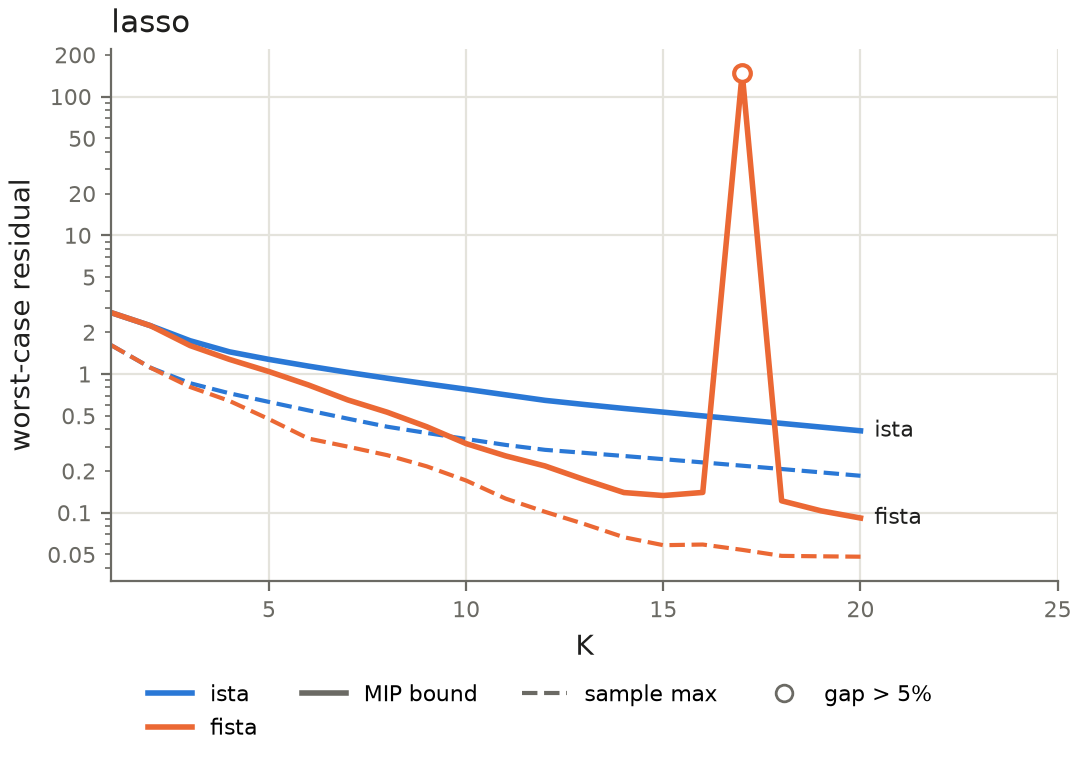
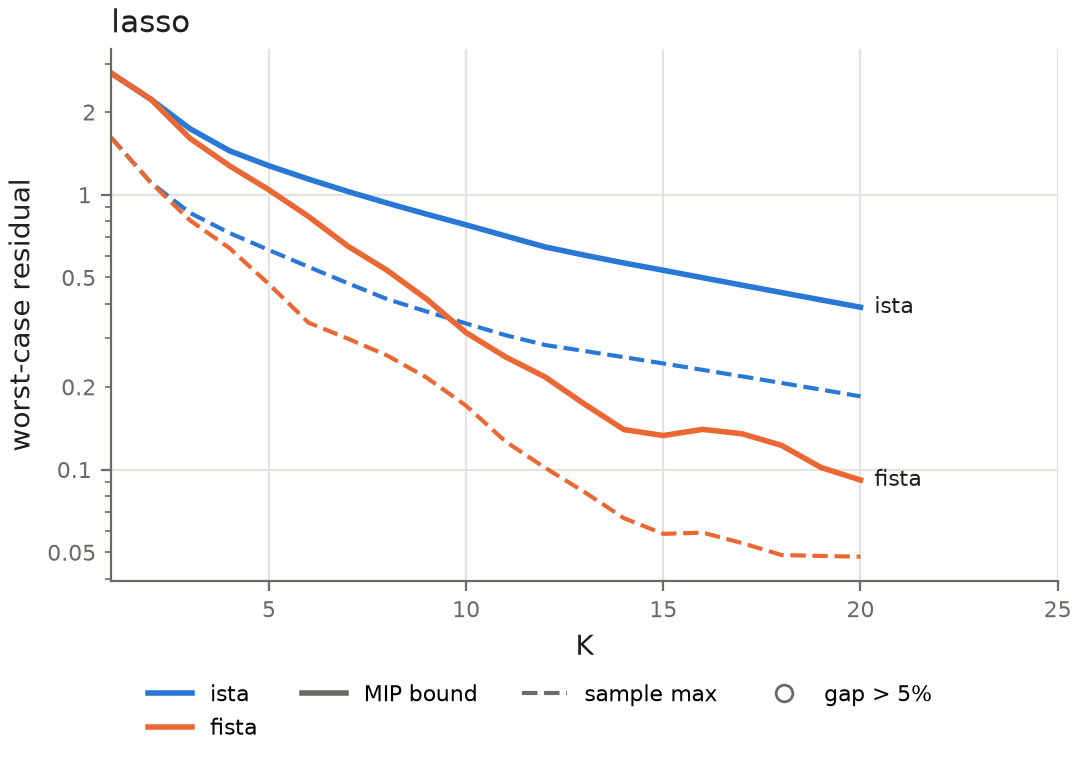
V1: lasso FISTA rerun on fomtools 541a88d (OBBT retry, PR #159): all 20 K solve within 2 h, K=17 bound 0.13496 (paper 0.13495); plots regenerated

diff --git a/PLAN_rerun.md b/PLAN_rerun.md
@@ -106,3 +106,6 @@ results file in the producing folder.
   non-optimal OBBT LP from scratch (dual simplex), then keep the input bound of that entry only.
   Lasso FISTA rerun in run_023 on `541a88d` (job 16203297); the other variants are unaffected (the
   fix only changes the path of a failed LP).
+- 2026-10-25: lasso FISTA rerun on fomtools `541a88d` (PR #159) done (job 16203297, 5.6 h): K=17 hits the
+  failing OBBT LP again, which is now solved from scratch; bound 0.13496 (paper 0.13495). All 20 K reach
+  the 5% gap within 2 h; max deviation from the paper 0.6%. Every verification variant now within 5%.
